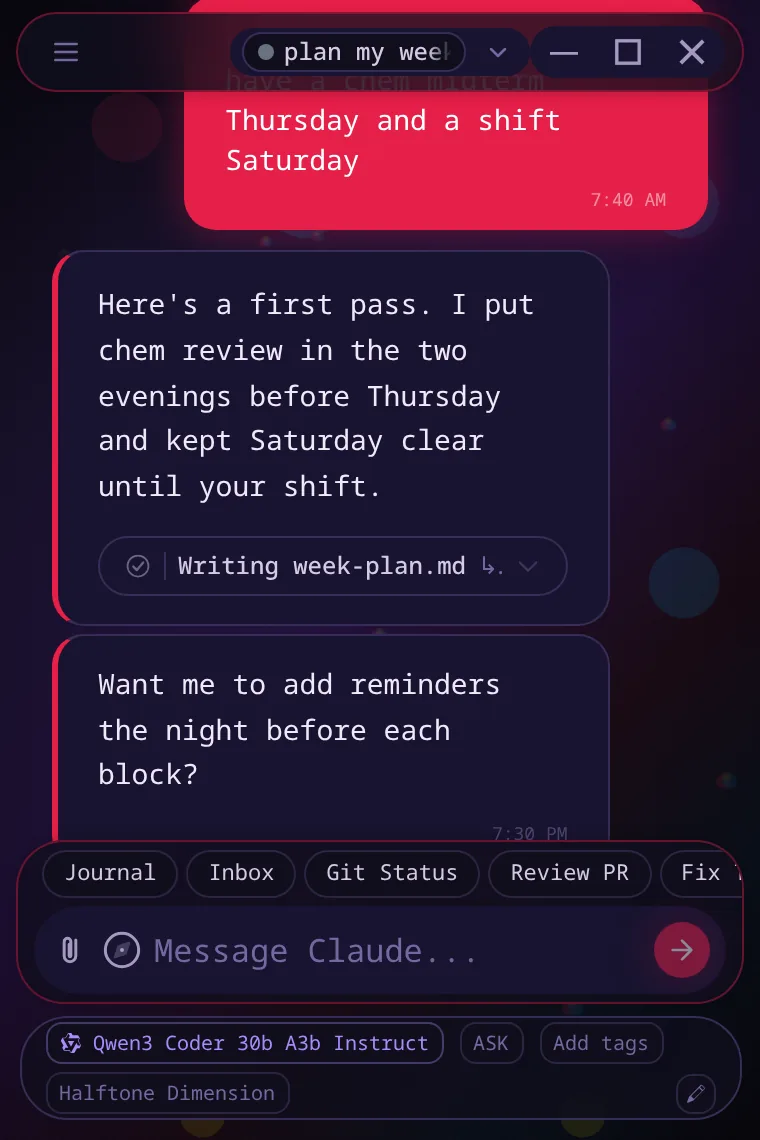
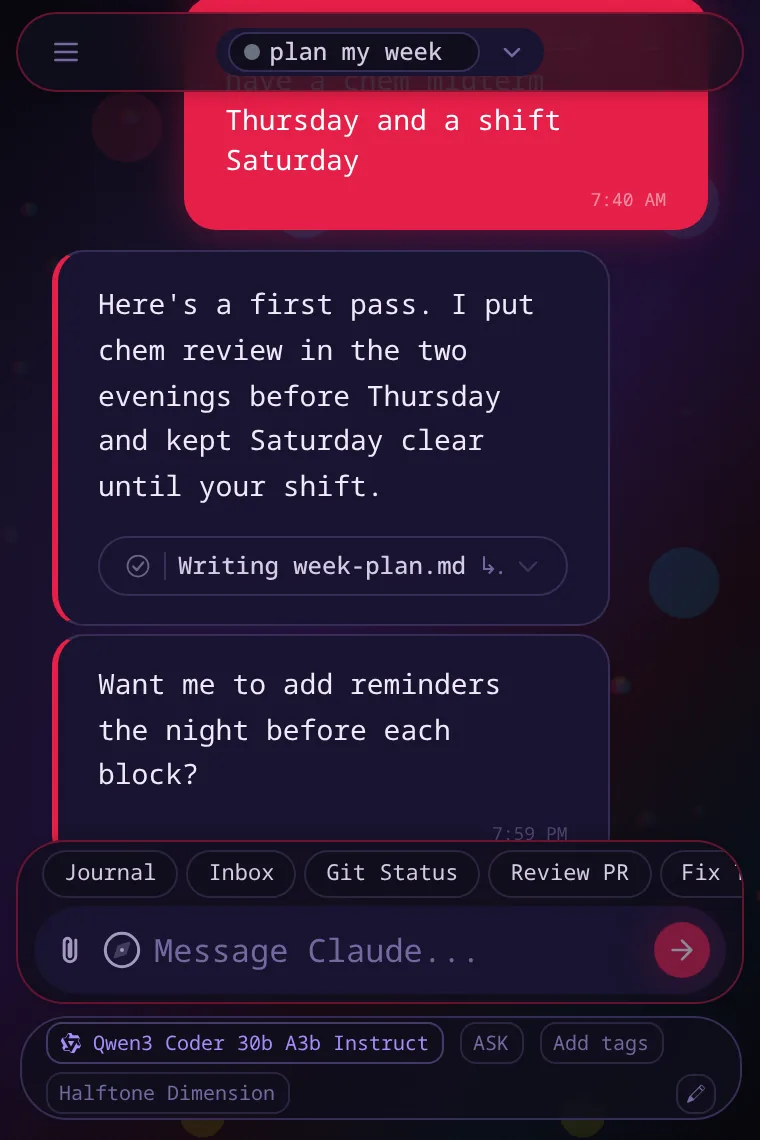
feat(site): the phone demo drops the minimise/maximise/close buttons
Destin on R-2: "but can we hide the minimize/maximize/exit icons?"

The demo is the desktop app, and Electron runs it frameless on Windows and
Linux, so HeaderBar draws its own caption cluster. On a phone that is three
controls for a window with no window manager behind it.

Hidden from the marketing embed, not from the app: a one-rule stylesheet
injected into the (same-origin) iframe on load, and the same rule applied when
the four media/embed-phone-<theme>.webp stills are shot, so the picture and the
live thing behind it agree. PHONE ONLY — on a desktop the demo IS a desktop
window and its chrome belongs to it (verified: caption cluster computes to
`flex` at 1440, `none` at 390).

Matched on the buttons' own `title` attributes rather than the cluster's
Tailwind class list, and via `:has()` on the parent, because the titles are the
only stable thing about them. If they are ever reworded the buttons come back,
which is visible rather than silent.

`?platform=android` would also have killed them, and was rejected: isAndroid()
has 31 call sites across the renderer, so it would have changed the whole demo
rather than three buttons.

Verified on a phone: the demo is not live before the tap, is live after it,
carries the page's current theme, has no caption cluster, and logs no console
error. Desktop geometry over all 400 elements at 1440 is unchanged.

Claude-Session: https://claude.ai/code/session_01TPKUeMsSyZm7CKfzKRooh5

Changed region(s): [[0.6658, 0.0, 0.9382, 0.0921], [0.2724, 0.0, 0.6355, 0.0921], [0.9987, 0.7675, 1.0, 0.7982]]

diff --git a/docs/index.html b/docs/index.html
@@ -1940,11 +1940,31 @@ function chainWheel(frame){
   }, { passive: false, capture: true });
 }
 
+// The demo is the desktop app, so its title bar carries the minimise / maximise
+// / close buttons Electron needs on a frameless window. On a phone they are
+// three controls for a window there is no window manager for, and Destin asked
+// for them gone (2026-09-03). Hidden here rather than in the app: nothing about
+// the product changes, only this marketing embed, and only on a phone -- on a
+// desktop the demo IS a desktop window and its chrome belongs to it.
+//
+// Matched on the buttons' own `title`, which is the one stable thing about them
+// (the cluster's class list is Tailwind utilities). If those titles are ever
+// reworded the buttons simply come back, which is visible rather than silent.
+var PHONE_EMBED_CSS = 'div:has(> button[title="Minimize"]){display:none !important}';
+function stripEmbedChrome(f){
+  if (!posterPhoneMQ.matches) return;
+  try {
+    var d = f.contentDocument; if (!d || d.getElementById('yc-phone-chrome')) return;
+    var st = d.createElement('style'); st.id = 'yc-phone-chrome';
+    st.textContent = PHONE_EMBED_CSS;
+    (d.head || d.documentElement).appendChild(st);
+  } catch (e) { /* cross-origin one day: leave the chrome alone */ }
+}
 function bootEmbed(){
   if (!embed || embedLive) return; embedLive = true;
   var f = embed.querySelector('.embed-iframe'), start = embed.querySelector('.embed-start'), inter = embed.querySelector('.embed-interact');
   start.hidden = true;
-  f.addEventListener('load', function(){ embed.classList.add('live'); inter.hidden = false; syncEmbedTheme(); chainWheel(f); });
+  f.addEventListener('load', function(){ embed.classList.add('live'); inter.hidden = false; syncEmbedTheme(); stripEmbedChrome(f); chainWheel(f); });
   f.src = f.dataset.src + '#t=' + currentTheme;
 }
 // --- The download pill: floats over the embed's dissolve, then docks to the
